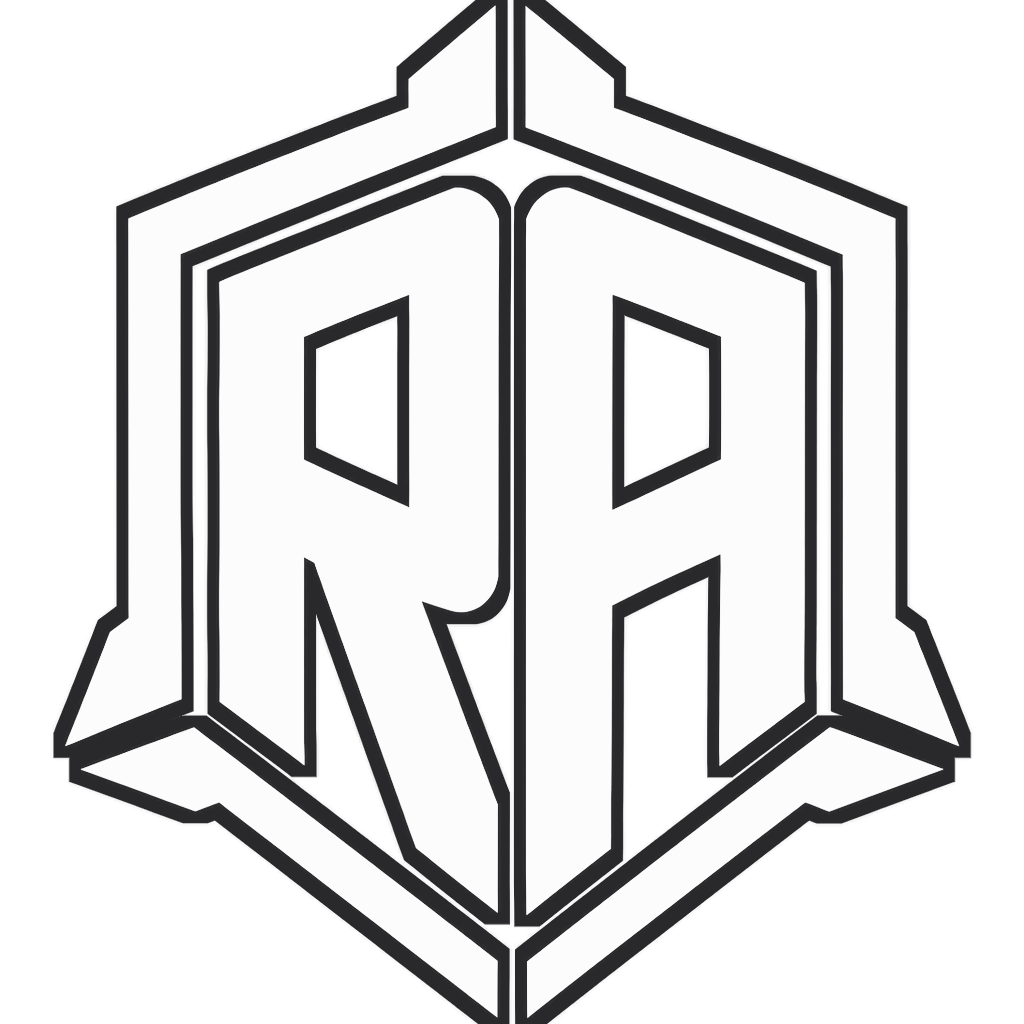
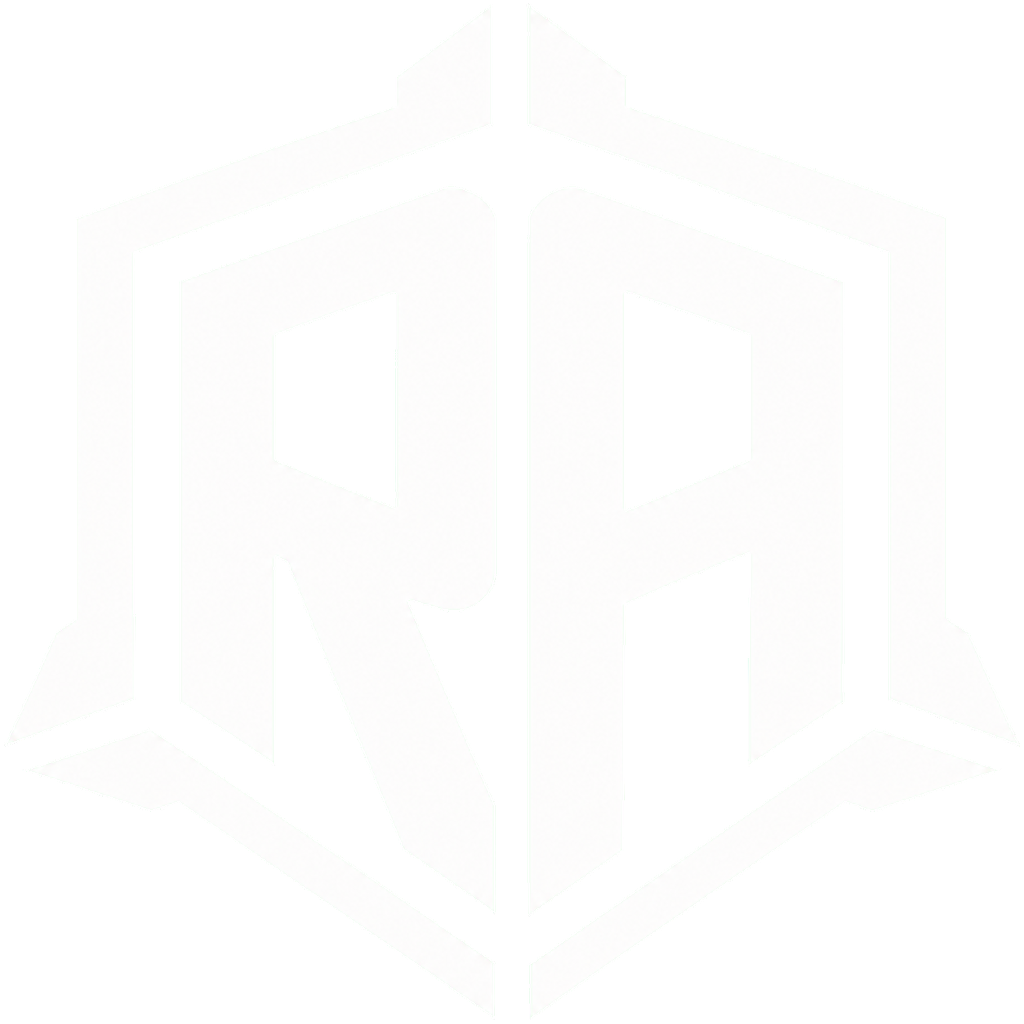
Release v0.1.1 with single-instance startup

Changed region(s): [[0.0312, 0.0, 0.9688, 1.0], [0.5938, 0.2812, 0.7188, 0.5], [0.2812, 0.2812, 0.4062, 0.5]]

diff --git a/src/RASharp.App/App.xaml.cs b/src/RASharp.App/App.xaml.cs
@@ -19,8 +19,10 @@ namespace RASharp.App;
 
 public partial class App : System.Windows.Application, IDisposable
 {
+    private const string SingleInstanceMutexName = @"Local\RASharp.SingleInstance";
     private readonly List<IDisposable> runtimeServices = [];
     private readonly object reloadSync = new();
+    private Mutex? singleInstanceMutex;
     private Forms.NotifyIcon? trayIcon;
     private SystemThemeService? themeService;
     private System.Drawing.Icon? applicationIcon;
@@ -47,6 +49,12 @@ public partial class App : System.Windows.Application, IDisposable
     protected override async void OnStartup(StartupEventArgs e)
     {
         base.OnStartup(e);
+        if (!TryAcquireSingleInstance())
+        {
+            Shutdown();
+            return;
+        }
+
         themeService = new SystemThemeService(this);
         try
         {
@@ -127,7 +135,30 @@ public partial class App : System.Windows.Application, IDisposable
         trayIcon = null;
         applicationIcon?.Dispose();
         applicationIcon = null;
+        if (singleInstanceMutex is not null)
+        {
+            singleInstanceMutex.ReleaseMutex();
+            singleInstanceMutex.Dispose();
+            singleInstanceMutex = null;
+        }
+
         GC.SuppressFinalize(this);
+    }
+
+    private bool TryAcquireSingleInstance()
+    {
+        var mutex = new Mutex(
+            initiallyOwned: true,
+            SingleInstanceMutexName,
+            out var createdNew);
+        if (!createdNew)
+        {
+            mutex.Dispose();
+            return false;
+        }
+
+        singleInstanceMutex = mutex;
+        return true;
     }
 
     private async Task ReloadAsync()